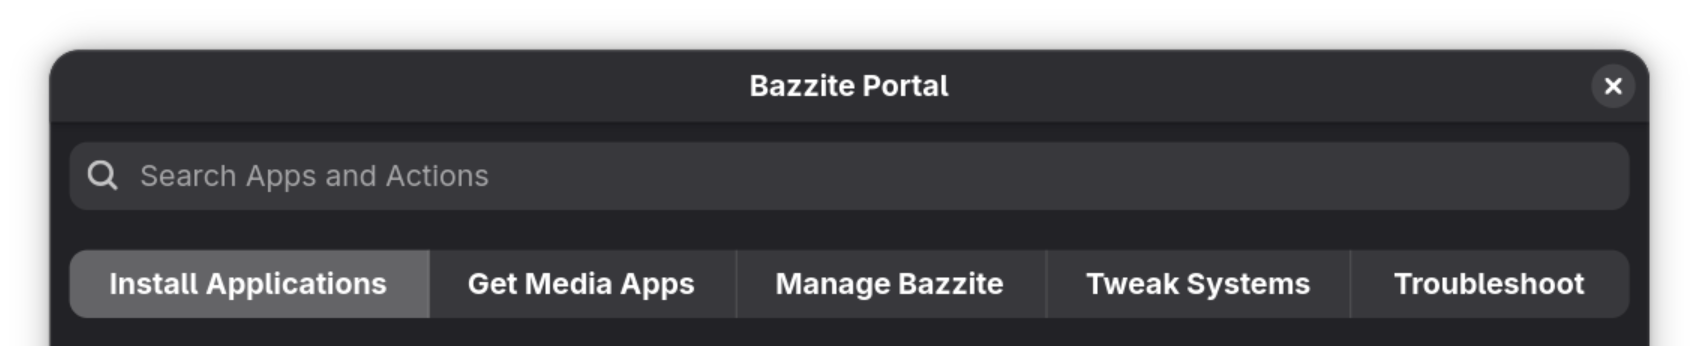
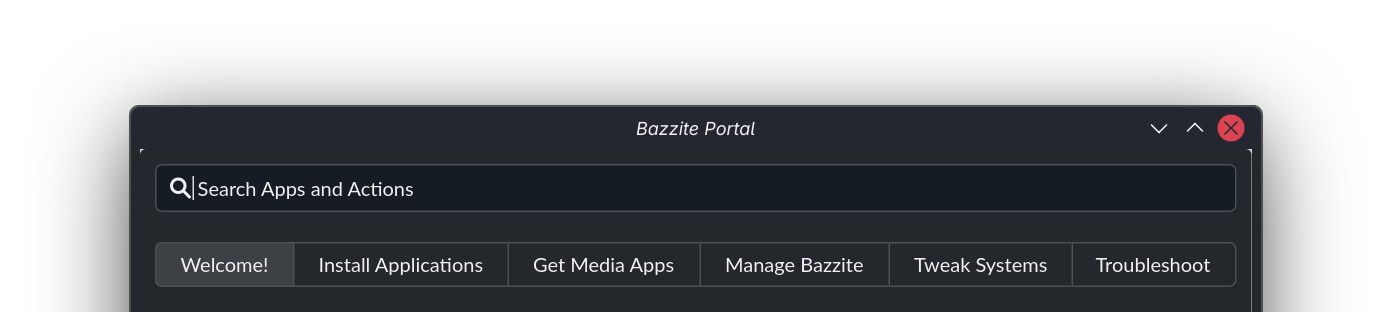
Merge pull request #480 from ykshek/fix-478-479
fix: mistakes in #478 and #479

Pull request: fix: mistakes in #478 and #479

diff --git a/src/Installing_and_Managing_Software/Bazzite_Portal.md b/src/Installing_and_Managing_Software/Bazzite_Portal.md
@@ -38,9 +38,9 @@ The Bazzite Portal is installed by default. To launch the app:
 
 The Bazzite Portal's features are organized into categories:
 
-![Screenshot of the Bazzite Portal's categories|1700x346, 50%](../img/Bazzite_Portal_Categories.png)
+![Screenshot of the Bazzite Portal's categories|1391x312, 50%](../img/Bazzite_Portal_Categories.png)
 
-Below are a list of non-exhaustive previews, containing select entries of each category.
+Below is a list of non-exhaustive previews, containing select entries of each category.
 
 <hr>
 
@@ -86,7 +86,7 @@ This integration lets you run the web app directly from your Steam library. For 
 
 ### Manage Bazzite
 
-This category lets you update your system and do advanced troubleshooting. You can gather system logs, rollback system updates, reset Bazzite to its default configuration, or rebase your system to a different version.
+This category lets you update your system and do advanced troubleshooting. You can gather system logs, roll back system updates, reset Bazzite to its default configuration, or rebase your system to a different version.
 
 - **Update Bazzite and Apps**: See the [Update Guide](Updates_Rollbacks_and_Rebasing/updating_guide.md).
 - **Rebase Bazzite** (_stable_ and _testing_): See the [Rebase Guide](Updates_Rollbacks_and_Rebasing/rebase_guide.md).
@@ -110,7 +110,7 @@ This category provides system tweaks, including user permissions, disk automount
 
 | Feature | Description | `ujust` Command |
 | :--- | :--- | :--- |
-| **Add «input» group** | Add user account to `input` group for controller driver compatibility. | `add-user-to-input-group` |
+| **Add "input" group** | Add user account to `input` group for controller driver compatibility. | `add-user-to-input-group` |
 | **Boot to Windows from Steam** | Add shortcut in Steam for automated dual-boot into Windows. | `setup-boot-windows-steam` |
 | **Clean Steam icons** | Enable auto-cleanup of desktop icons generated by Steam. | `steam-icons` |
 | ... | ... | ... |
@@ -162,7 +162,7 @@ For example, this entry shows the `ujust` commands used by the `iwd` setting:
 
 This configuration generates menu options in Bazzite Portal that let you enable or disable `iwd`:
 
-![Screenshot of the Bazzite Portal iwd options|909x639, 75%](../img/Bazzite_Portal_iwd.png)
+![Screenshot of the Bazzite Portal iwd options|909x639, 50%](../img/Bazzite_Portal_iwd.png)
 
 !!! tip "Want to know more?"
 

diff --git a/src/General/issues_and_resolutions.md b/src/General/issues_and_resolutions.md
@@ -98,7 +98,7 @@ Power save: on
 ```
 
 There are different steps to resolve this depending on your current Wi-Fi backend.
-!!! info "[`iwd`](https://wiki.archlinux.org/title/Iwd) has been abandoned due to the big Intel layoffs in 2026. You may still try it to fix lag spikes caused by [`wpa_supplicant`](https://wiki.archlinux.org/title/Wpa_supplicant), but it may stop working at anytime and is thus highly advisable to [switch your Wi-Fi backend](../issues_and_resolutions/#switching-wi-fi-backends) to [`wpa_supplicant`](https://wiki.archlinux.org/title/Wpa_supplicant)"
+!!! info "[`iwd`](https://wiki.archlinux.org/title/Iwd) has been abandoned due to Intel shifting their priorities away from open source. You may still try it to fix lag spikes caused by [`wpa_supplicant`](https://wiki.archlinux.org/title/Wpa_supplicant), but it may stop working at anytime and is thus highly advisable to [switch your Wi-Fi backend](./#switching-wi-fi-backends) to [`wpa_supplicant`](https://wiki.archlinux.org/title/Wpa_supplicant)"
 
 === "wpa_supplicant (iwd is OFF)"
 
@@ -144,7 +144,7 @@ There are different steps to resolve this depending on your current Wi-Fi backen
 
 ## Error on connecting to Wi-Fi: "Failed to add new connection: 802.1x connections must have IWD provisioning files"
 
-!!! warning "This is an [`iwd`](https://wiki.archlinux.org/title/Iwd) specific issue. It is highly advisable to [switch your Wi-Fi backend](../issues_and_resolutions/#switching-wi-fi-backends) to [`wpa_supplicant`](https://wiki.archlinux.org/title/Wpa_supplicant) as the [`iwd`](https://wiki.archlinux.org/title/Iwd) project is no longer maintained by Intel."
+!!! warning "This is an [`iwd`](https://wiki.archlinux.org/title/Iwd) specific issue. It is highly advisable to [switch your Wi-Fi backend](./#switching-wi-fi-backends) to [`wpa_supplicant`](https://wiki.archlinux.org/title/Wpa_supplicant) as the [`iwd`](https://wiki.archlinux.org/title/Iwd) project is no longer maintained by Intel."
 
 NetworkManager cannot automatically generate 802.1x connections when using the `iwd` backend.
 
@@ -182,7 +182,7 @@ And try to connect again.
 
 ## Error on connecting to Wi-Fi: "IP configuration was unavailable" when connecting to 802.1x wireless networks
 
-!!! warning "This is an [`iwd`](https://wiki.archlinux.org/title/Iwd) specific issue. It is highly advisable to [switch your Wi-Fi backend](../issues_and_resolutions/#switching-wi-fi-backends) to [`wpa_supplicant`](https://wiki.archlinux.org/title/Wpa_supplicant) as the [`iwd`](https://wiki.archlinux.org/title/Iwd) project is no longer maintained by Intel."
+!!! warning "This is an [`iwd`](https://wiki.archlinux.org/title/Iwd) specific issue. It is highly advisable to [switch your Wi-Fi backend](./#switching-wi-fi-backends) to [`wpa_supplicant`](https://wiki.archlinux.org/title/Wpa_supplicant) as the [`iwd`](https://wiki.archlinux.org/title/Iwd) project is no longer maintained by Intel."
 
 Check the system logs with `ujust logs-this-boot | grep NetworkManager`, you should be able to see that 
 
@@ -224,7 +224,7 @@ You should be able to connect to the enterprise network.
 
 !!! info "[`iwd`](https://wiki.archlinux.org/title/Iwd) has been abandoned due to the big Intel layoffs in 2026. You may still try it to fix lag spikes caused by [`wpa_supplicant`](https://wiki.archlinux.org/title/Wpa_supplicant), but it may stop working at anytime and is thus highly advisable to switch your Wi-Fi backend to [`wpa_supplicant`](https://wiki.archlinux.org/title/Wpa_supplicant)"
 
-To switch your Wi-Fi backend, open [Bazzite Portal](../../Installing_and_Managing_Software/Bazzite_Portal/), and under the **Troubleshooting** page, select **Change Wi-Fi system back-end**.
+To switch your Wi-Fi backend, open [Bazzite Portal](/Installing_and_Managing_Software/Bazzite_Portal/), and under the **Troubleshooting** page, select **Change Wi-Fi system back-end**.
 
 <hr>
 